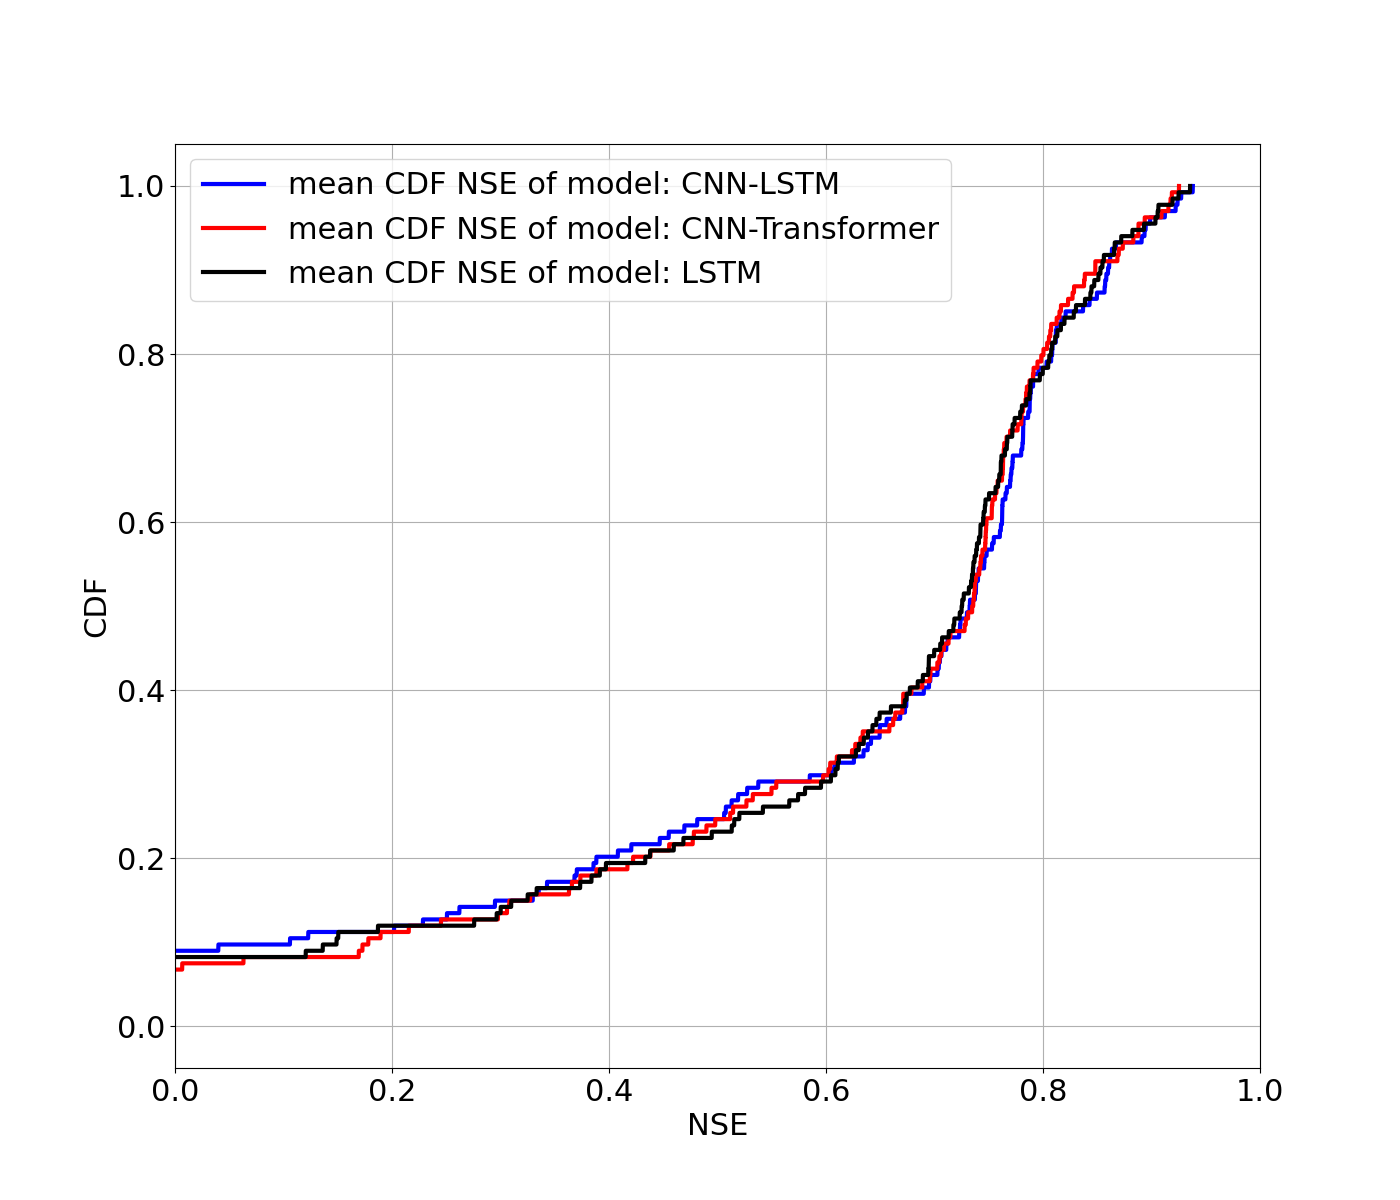
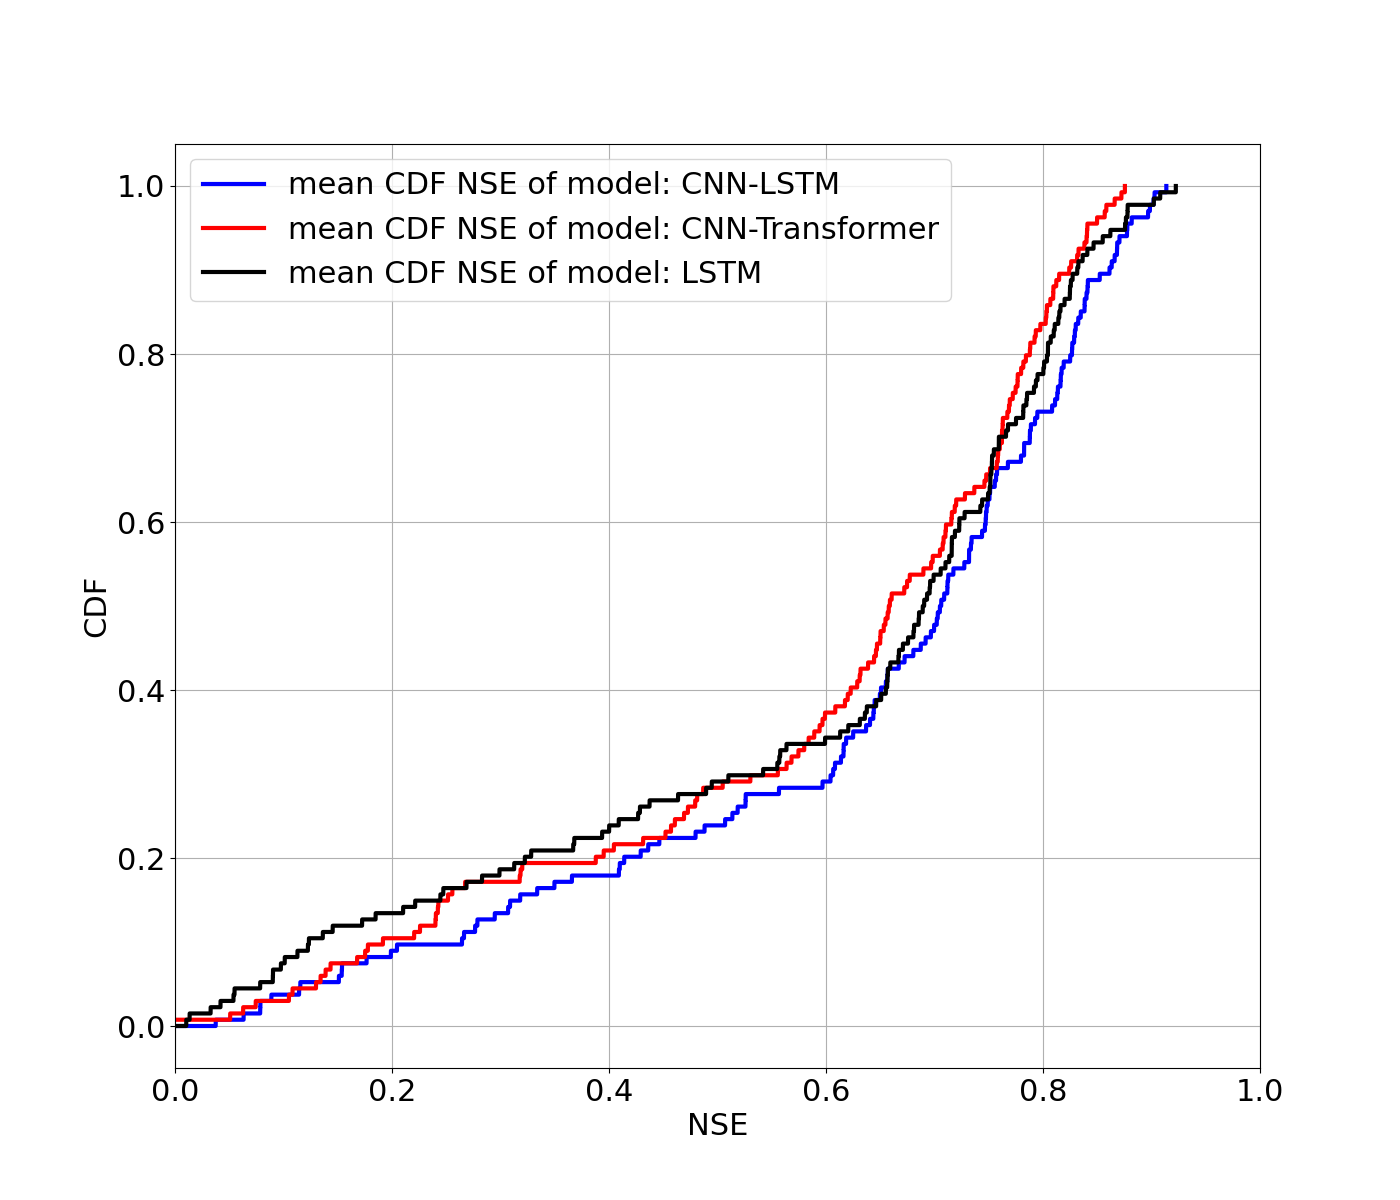
adding plot for test

Changed region(s): [[0.1229, 0.1542, 0.86, 0.8633]]

diff --git a/src/create_CDF_NSE_comparison_plot_from_slurm_output.py b/src/create_CDF_NSE_comparison_plot_from_slurm_output.py
@@ -23,7 +23,7 @@ KEYS_FROM_PARAMS_DICT = ["batch_size",
 
 COLORS_LIST = ["blue", "red", "black", "orange"]
 
-LIST_ALLOWED_NUMBER_OF_BASINS = [135, 134]
+LIST_ALLOWED_NUMBER_OF_BASINS = [135]
 
 
 def create_dict_basin_id_to_NSE_frederik_code(logs_filename):
@@ -164,8 +164,9 @@ def plot_NSE_CDF_graphs_my_code(ablation_study=False):
     if ablation_study:
         input_file_names = ["slurm-19089603.out", "slurm-19100407.out", "slurm-19185354.out", "slurm-19128144.out"]
     else:
-        input_file_names = ["slurm-17775252.out", "slurm-17782018.out", "slurm-17828539.out", "slurm-17832148.out",
-                            "slurm-17837642.out", "slurm-18941386.out", "slurm-19158233.out"]
+        # input_file_names = ["slurm-17775252.out", "slurm-17782018.out", "slurm-17828539.out", "slurm-17832148.out",
+        #                     "slurm-17837642.out", "slurm-18941386.out", "slurm-19158233.out"]
+        input_file_names = ["slurm-19178982.out", "slurm-19173334.out", "slurm-19170388.out"]
     input_file_paths = [Path(f"../slurm_output_files/slurm_files_ensemble_comparison/{file_name}").resolve() for
                         file_name in input_file_names]
     dict_all_runs_from_all_files, dict_avg_runs_from_all_files = calc_dicts_from_all_runs_and_all_files(
@@ -292,4 +293,4 @@ if __name__ == "__main__":
     #     for j in range(res.shape[1]):
     #         print("{0:0.2f}".format(res[i, j]), end=" ")
     #     print()
-    main(ablation_study=True)
+    main(ablation_study=False)
